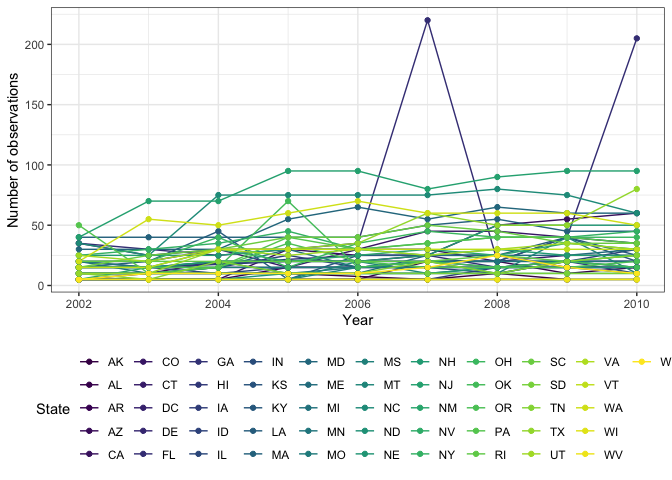
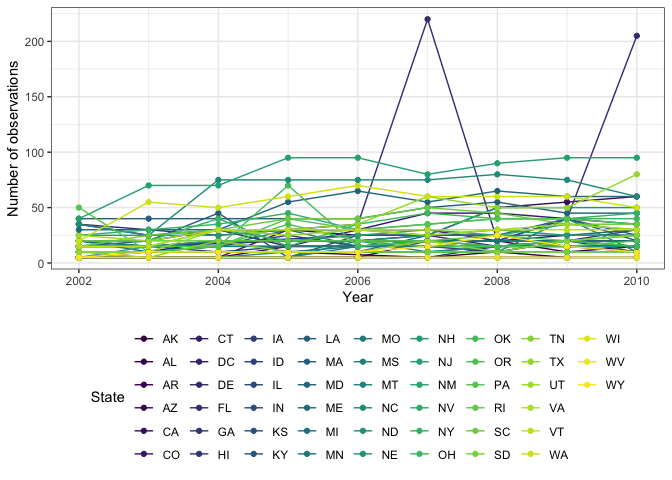
make some change on graphs

diff --git a/p8105_hw3_qs2200.md b/p8105_hw3_qs2200.md
@@ -41,7 +41,7 @@ ggplot(brfss_spa, aes(x = year, y = n_obs, color = state))+
   geom_line()+geom_point()+
   labs(x = "Year",
     y = "Number of observations")+
-  viridis::scale_color_viridis(discrete=TRUE, name = "State", guide = guide_legend(nrow = 5))+
+  viridis::scale_color_viridis(discrete=TRUE, name = "State", guide = guide_legend(nrow = 6))+
   theme_bw()+
   theme(legend.position = "bottom")
 ```
@@ -83,7 +83,7 @@ brfss_df %>%
     y = "Average proportion"
   )+
   facet_wrap(~response)+
-  viridis::scale_color_viridis(discrete=TRUE, name = "State", guide = guide_legend(nrow = 5))+
+  viridis::scale_color_viridis(discrete=TRUE, name = "State", guide = guide_legend(nrow = 6))+
   theme_bw()+
   theme(legend.position = "bottom")
 ```
@@ -285,6 +285,8 @@ tmax_tmin+snow_fall
 
     ## Picking joint bandwidth of 3.76
 
-![](p8105_hw3_qs2200_files/figure-markdown_github/problem%203.4-1.png) From the T-max vs T-min graph, we can see the relationship between tmax and tmin. The highest density appears in the middle of the plot.
+![](p8105_hw3_qs2200_files/figure-markdown_github/problem%203.4-1.png)
+
+From the T-max vs T-min graph, we can see the relationship between tmax and tmin. The highest density appears in the middle of the plot.
 
 From the snowfall graph, we can find that for most of year, there are 4 snowfall peaks in density, which are around 10, 25, 50 and 70mm. Most of year have similar distribution of snowfall value.
